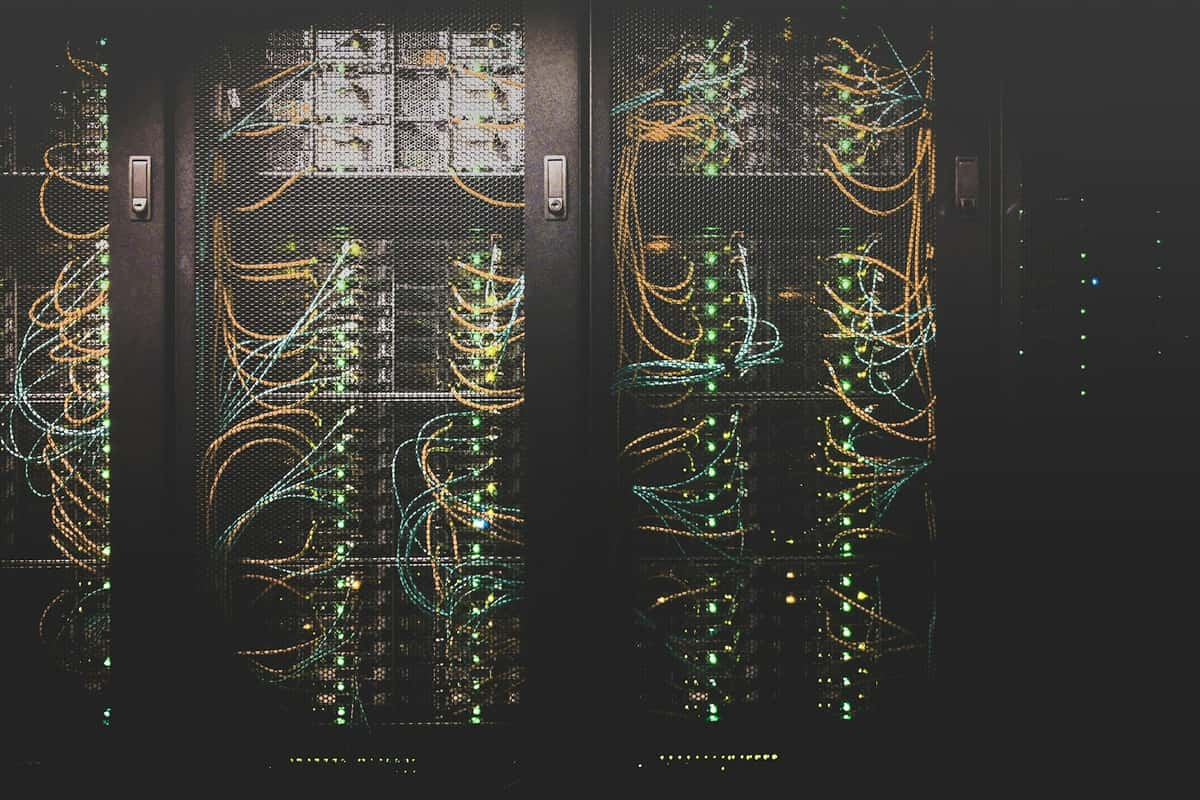
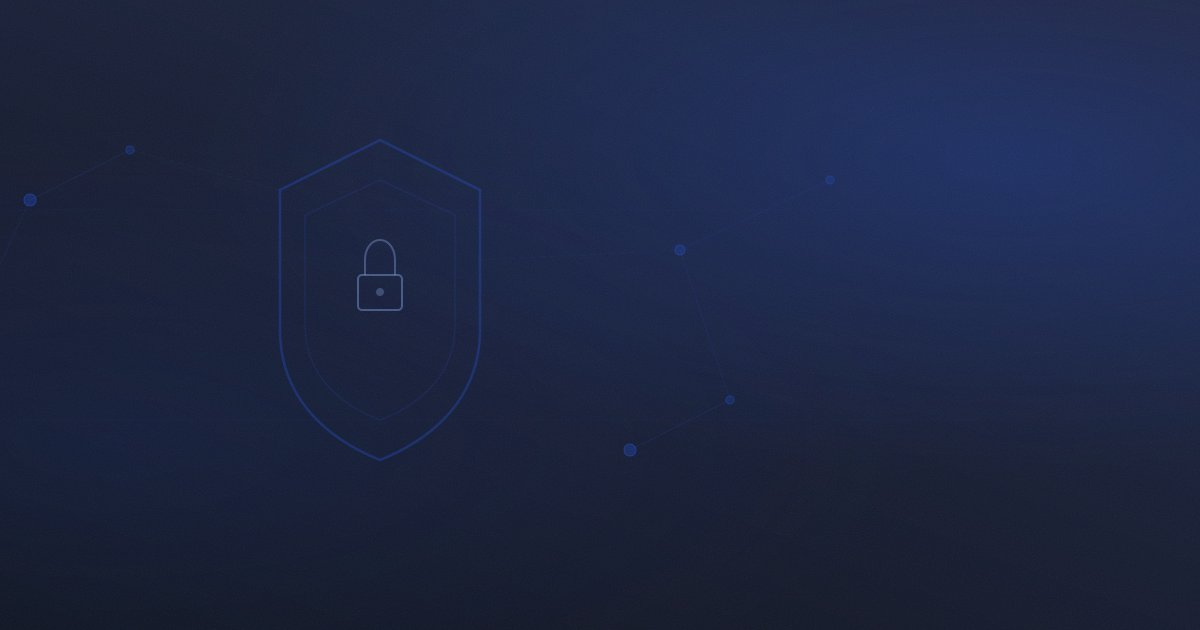
Replace duplicate hero images, add SEO rules to CLAUDE.md, cross-link investor article
- Replace blog/process-audit.jpg and blog/it-risk.jpg with unique
  generated brand-themed images (were exact copies of services/ photos)
- Add "SEO & Content Rules" section to CLAUDE.md: image uniqueness,
  alt text, blog cross-link requirements, service mapping, title/meta
- Add /services/process-operations and /services/revops-crm-consulting
  cross-links to investor-readiness-operating-evidence article

Claude-Session: https://claude.ai/code/session_01HQs3XPYuKsaF9aos1RJF2T

diff --git a/app/[locale]/blog/investor-readiness-operating-evidence/page.tsx b/app/[locale]/blog/investor-readiness-operating-evidence/page.tsx
@@ -739,7 +739,17 @@ export default async function InvestorReadiness({
       </p>
       <p>
         {t(
-          "It is to identify which parts of the story the business can already prove - and which parts still require operational work."
+          "It is to identify which parts of the story the business can already prove - and which parts still require operational work. Our"
+        )}{" "}
+        <Link href="/services/process-operations">
+          {t("Process & Operations consulting")}
+        </Link>{" "}
+        {t("and")}{" "}
+        <Link href="/services/revops-crm-consulting">
+          {t("RevOps & CRM consulting")}
+        </Link>{" "}
+        {t(
+          "help B2B teams turn operational gaps into documented, investor-ready evidence."
         )}
       </p>
       <p>

diff --git a/CLAUDE.md b/CLAUDE.md
@@ -210,6 +210,28 @@ export default async function Page({ params }: { params: Promise<{ locale: strin
 - Icons: `lucide-react` only
 - Images: `next/image` with `width`/`height`. Photos in `public/photos/` or `public/blog/`
 
+## SEO & Content Rules
+
+### Images
+- Every `<Image>` must have a descriptive `alt` (not empty, not the filename). Hero images: `"[Subject] - [context]"`. Decorative images: `alt=""` + `aria-hidden="true"`.
+- No duplicate images across the site. Every page/article must use a unique hero image. Check `md5sum public/blog/*.jpg public/services/*.jpg public/photos/*.jpg` before committing.
+- Blog hero images go in `public/blog/`, service photos in `public/services/`, section photos in `public/photos/`.
+- Use `next/image` with explicit `width`/`height` or `fill` + `sizes`. Always include `placeholder="blur"` with `blurDataURL` for above-the-fold images.
+
+### Blog Articles
+- Every article MUST end with a service cross-link section: 1-2 paragraphs naturally connecting the topic to the relevant `/services/[slug]` page via `<Link>`, plus a bold `<Link href="/#diagnostic-request-form">Request a free diagnostic</Link>` CTA.
+- Service mapping: AI articles → `/services/ai-process-automation`; CRM/RevOps → `/services/revops-crm-consulting`; Process/Ops → `/services/process-operations`; IT Risk → `/services/it-risk-security`; General/strategy → `/services/business-diagnostic`.
+- Register every new article in `components/blog/blogData.ts` (top of array = newest), `public/llms.txt`, and `public/llms-full.txt`.
+- `seoTitle` and `metaDescription` in blogData — keep title under 60 chars, description under 155 chars.
+- No en-dashes (–) in any user-facing text. Use hyphens (-) for ranges.
+- Wrap all article body text in `t()` for i18n.
+
+### Pages
+- Title set via layout template `"%s | Opsfield Systems"` — do NOT add the brand suffix manually.
+- Every page needs `alternates` and `robots` via `alternatesFor()` / `robotsFor()`.
+- Meta descriptions under 155 characters with a clear CTA where appropriate.
+- LinkedIn URLs always use `www.linkedin.com` (not `linkedin.com`).
+
 ## DesignSync Regressions
 
 After any DesignSync pull, verify it hasn't reverted:
